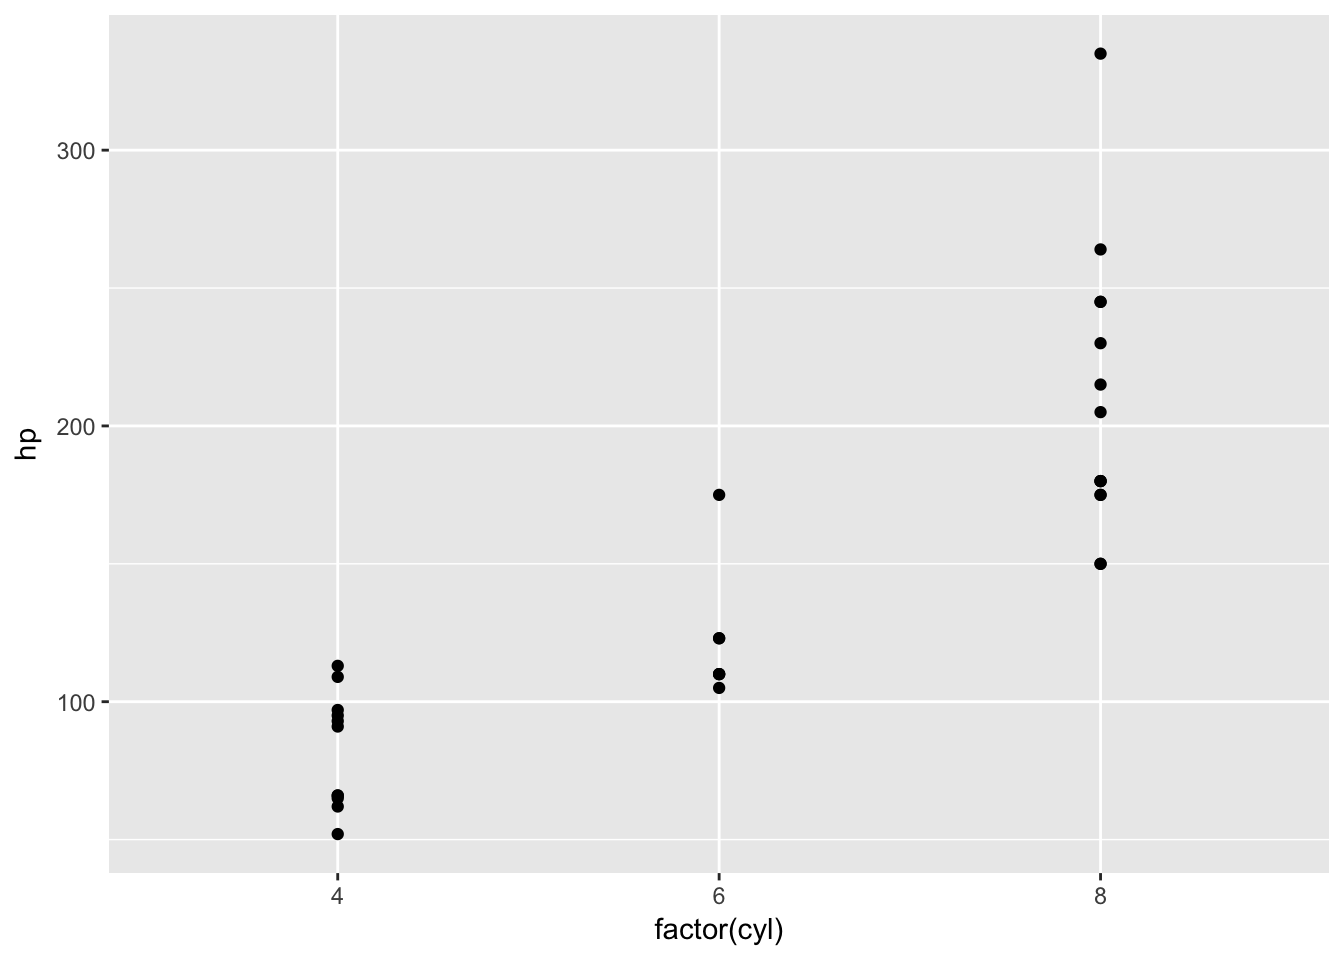
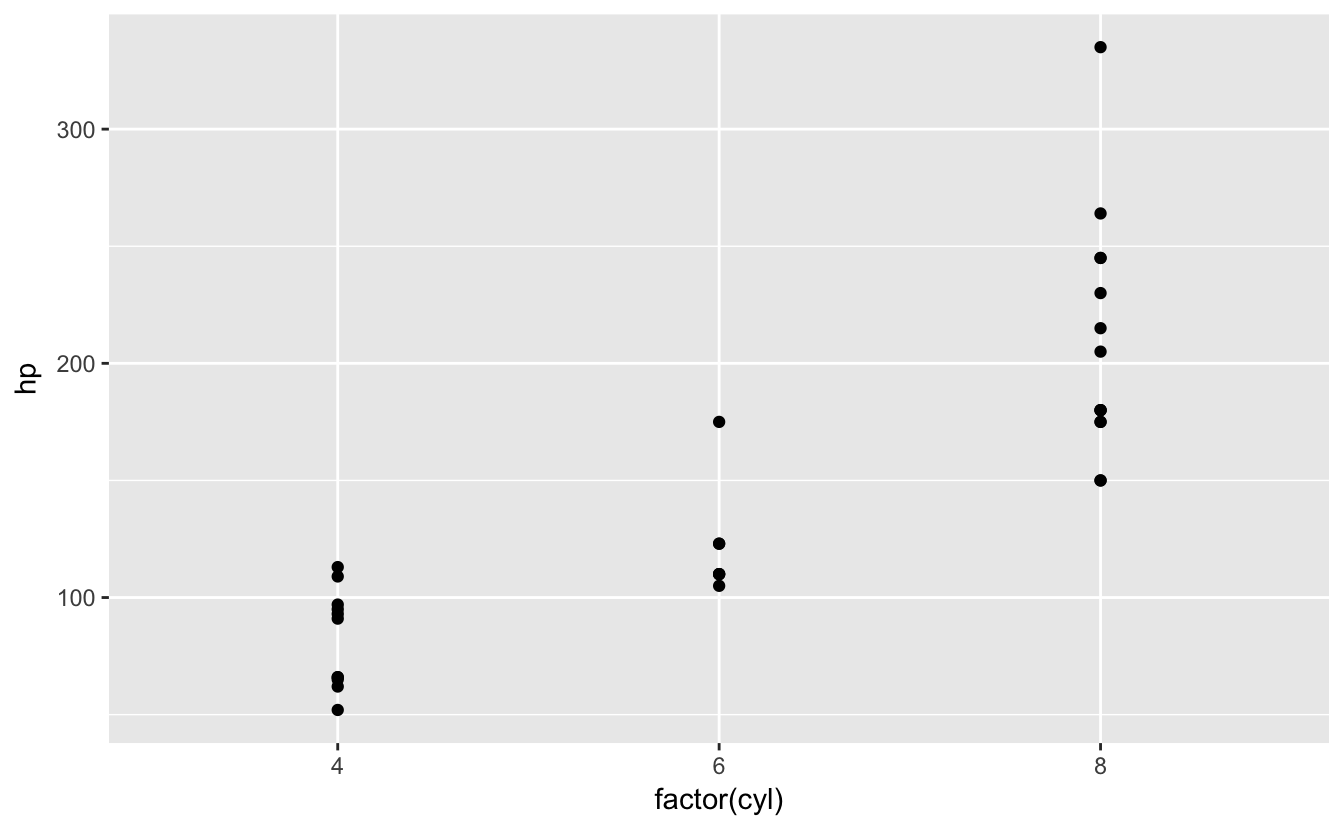
option chunk options

diff --git a/content/post/2017-11-21-hello-world-this-is-blogdown.html b/content/post/2017-11-21-hello-world-this-is-blogdown.html
@@ -13,20 +13,13 @@ tags: [meta, blogdown, markdown]
 <p>My blog at <a href="https://sebastiansauer.github.io/posts/" class="uri">https://sebastiansauer.github.io/posts/</a> has moved. It is now here! This is the new home of my blog. In (the unlikely) case you are asking yourself “Why did you move your blog?”, here is the answer.</p>
 <p>I was using Jekyll at Github pages which is great as long as you do not have a lot of R in your posts. But I did have a lot of R in my posts. The problem is that there is no builtin support for rendering R codes to the markdown file. That means that I ended up fixing images links all day long (well, every littel now and then).</p>
 <p>In contrast, blogdown is built for using R. That means, you just write write something in R, save the file, and watch your results:</p>
-<pre class="r"><code>library(tidyverse)</code></pre>
-<pre><code>## ── Attaching packages ────────────────────────── tidyverse 1.2.1 ──</code></pre>
-<pre><code>## ✔ ggplot2 2.2.1.9000     ✔ purrr   0.2.4     
-## ✔ tibble  1.3.4          ✔ dplyr   0.7.4     
-## ✔ tidyr   0.7.2          ✔ stringr 1.2.0     
-## ✔ readr   1.1.1          ✔ forcats 0.2.0</code></pre>
-<pre><code>## ── Conflicts ───────────────────────────── tidyverse_conflicts() ──
-## ✖ dplyr::filter() masks stats::filter()
-## ✖ dplyr::lag()    masks stats::lag()</code></pre>
-<pre class="r"><code>mtcars %&gt;% 
+<pre class="r"><code>library(tidyverse)
+
+mtcars %&gt;% 
   ggplot +
   aes(x = factor(cyl), y = hp) +
   geom_point()</code></pre>
-<p><img src="/post/2017-11-21-hello-world-this-is-blogdown_files/figure-html/unnamed-chunk-2-1.png" width="672" /></p>
+<p><img src="/post/2017-11-21-hello-world-this-is-blogdown_files/figure-html/unnamed-chunk-1-1.png" width="70%" style="display: block; margin: auto;" /></p>
 <p>Some stuff that I had to to, unfortunately, was to change the YAML metadata of my posts. Luckily Yihui showed in his <a href="https://bookdown.org/yihui/blogdown/">book</a> a way that was of great help:</p>
 <pre class="r"><code>files &lt;- list.files()
 library(blogdown)
@@ -38,5 +31,6 @@ for (f in files) {
                          date = str_extract(f, &quot;^\\d{4}-\\d{2}-\\d{2}&quot;))
 }</code></pre>
 <p>This snippet takes a vector of file names and modifies the yaml header so that the author tag is set to my name. In addition, a date tag is added where the value is taken from the file name (my post file names all cary the date form in the form YYYY-MM-DD).</p>
-<p>There were also some quarrels with the theme; so I sticked with teh “Lithium” theme, which worked fine.</p>
+<p>There were also some quarrels with the theme; so I sticked with the “Lithium” theme, which worked fine.</p>
+<p>The source code of this blog can be found at <a href="https://github.com/sebastiansauer/data_se">Github</a>.</p>
 <p>In sum: if you are posting a lot of R in your posts, blogdown will greatly simplify the overhead. Enjoy!</p>

diff --git a/public/2017/11/21/hello-world-this-is-blogdown/index.html b/public/2017/11/21/hello-world-this-is-blogdown/index.html
@@ -72,20 +72,13 @@
       <p>My blog at <a href="https://sebastiansauer.github.io/posts/" class="uri">https://sebastiansauer.github.io/posts/</a> has moved. It is now here! This is the new home of my blog. In (the unlikely) case you are asking yourself “Why did you move your blog?”, here is the answer.</p>
 <p>I was using Jekyll at Github pages which is great as long as you do not have a lot of R in your posts. But I did have a lot of R in my posts. The problem is that there is no builtin support for rendering R codes to the markdown file. That means that I ended up fixing images links all day long (well, every littel now and then).</p>
 <p>In contrast, blogdown is built for using R. That means, you just write write something in R, save the file, and watch your results:</p>
-<pre class="r"><code>library(tidyverse)</code></pre>
-<pre><code>## ── Attaching packages ────────────────────────── tidyverse 1.2.1 ──</code></pre>
-<pre><code>## ✔ ggplot2 2.2.1.9000     ✔ purrr   0.2.4     
-## ✔ tibble  1.3.4          ✔ dplyr   0.7.4     
-## ✔ tidyr   0.7.2          ✔ stringr 1.2.0     
-## ✔ readr   1.1.1          ✔ forcats 0.2.0</code></pre>
-<pre><code>## ── Conflicts ───────────────────────────── tidyverse_conflicts() ──
-## ✖ dplyr::filter() masks stats::filter()
-## ✖ dplyr::lag()    masks stats::lag()</code></pre>
-<pre class="r"><code>mtcars %&gt;% 
+<pre class="r"><code>library(tidyverse)
+
+mtcars %&gt;% 
   ggplot +
   aes(x = factor(cyl), y = hp) +
   geom_point()</code></pre>
-<p><img src="/post/2017-11-21-hello-world-this-is-blogdown_files/figure-html/unnamed-chunk-2-1.png" width="672" /></p>
+<p><img src="/post/2017-11-21-hello-world-this-is-blogdown_files/figure-html/unnamed-chunk-1-1.png" width="70%" style="display: block; margin: auto;" /></p>
 <p>Some stuff that I had to to, unfortunately, was to change the YAML metadata of my posts. Luckily Yihui showed in his <a href="https://bookdown.org/yihui/blogdown/">book</a> a way that was of great help:</p>
 <pre class="r"><code>files &lt;- list.files()
 library(blogdown)
@@ -97,7 +90,8 @@ for (f in files) {
                          date = str_extract(f, &quot;^\\d{4}-\\d{2}-\\d{2}&quot;))
 }</code></pre>
 <p>This snippet takes a vector of file names and modifies the yaml header so that the author tag is set to my name. In addition, a date tag is added where the value is taken from the file name (my post file names all cary the date form in the form YYYY-MM-DD).</p>
-<p>There were also some quarrels with the theme; so I sticked with teh “Lithium” theme, which worked fine.</p>
+<p>There were also some quarrels with the theme; so I sticked with the “Lithium” theme, which worked fine.</p>
+<p>The source code of this blog can be found at <a href="https://github.com/sebastiansauer/data_se">Github</a>.</p>
 <p>In sum: if you are posting a lot of R in your posts, blogdown will greatly simplify the overhead. Enjoy!</p>
 
     </div>

diff --git a/public/2017/11/21/compute-effect-sizes-with-r-a-primer/index.html b/public/2017/11/21/compute-effect-sizes-with-r-a-primer/index.html
@@ -147,6 +147,14 @@ library(mosaic)</code></pre>
 #&gt;        inf        sup 
 #&gt; -0.1091917  0.1438309</code></pre>
 </div>
+<div id="plot-mean-difference" class="section level2">
+<h2>Plot mean difference</h2>
+<pre class="r"><code>ggplot(flights2) +
+  aes(x = origin, y = arr_delay) +
+  geom_point(color = &quot;grey80&quot;, position = &quot;jitter&quot;) +
+  stat_summary(fun.y = mean, geom = &quot;point&quot;, color = &quot;red&quot;, size = 5)</code></pre>
+<p><img src="/post/2017-11-21-compute-effect-sizes-with-r-a-primer_files/figure-html/unnamed-chunk-11-1.png" width="70%" style="display: block; margin: auto;" /></p>
+</div>
 <div id="other-effect-sizes" class="section level2">
 <h2>Other effect sizes</h2>
 <p>Other effect sizes can quite conveniently be derived from the package <code>compute.es</code>.</p>

diff --git a/content/post/2017-11-21-compute-effect-sizes-with-r-a-primer.html b/content/post/2017-11-21-compute-effect-sizes-with-r-a-primer.html
@@ -89,6 +89,14 @@ library(mosaic)</code></pre>
 #&gt;        inf        sup 
 #&gt; -0.1091917  0.1438309</code></pre>
 </div>
+<div id="plot-mean-difference" class="section level2">
+<h2>Plot mean difference</h2>
+<pre class="r"><code>ggplot(flights2) +
+  aes(x = origin, y = arr_delay) +
+  geom_point(color = &quot;grey80&quot;, position = &quot;jitter&quot;) +
+  stat_summary(fun.y = mean, geom = &quot;point&quot;, color = &quot;red&quot;, size = 5)</code></pre>
+<p><img src="/post/2017-11-21-compute-effect-sizes-with-r-a-primer_files/figure-html/unnamed-chunk-11-1.png" width="70%" style="display: block; margin: auto;" /></p>
+</div>
 <div id="other-effect-sizes" class="section level2">
 <h2>Other effect sizes</h2>
 <p>Other effect sizes can quite conveniently be derived from the package <code>compute.es</code>.</p>
